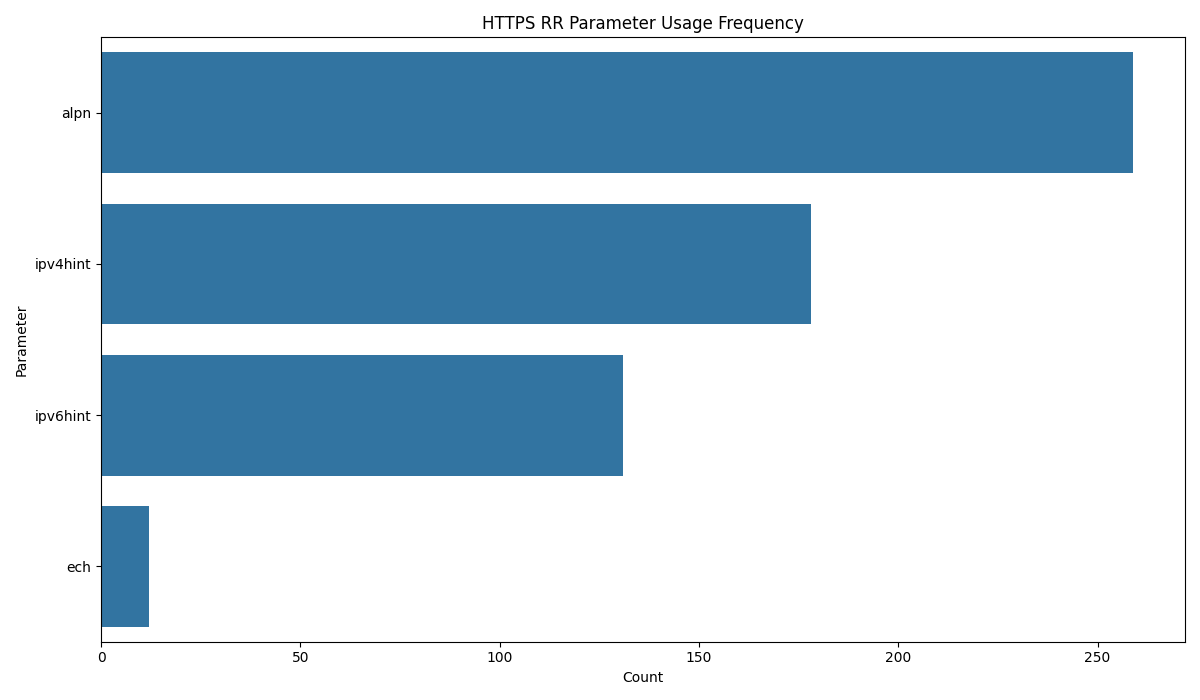
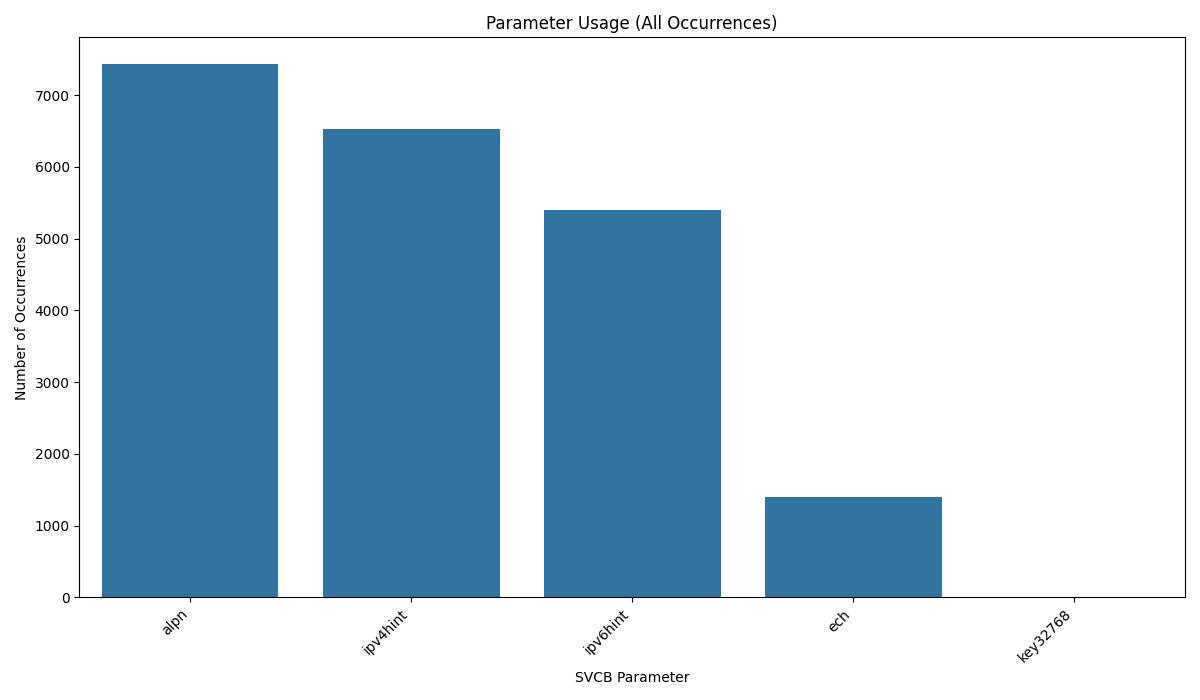
feat: Refactor DNS report generation and update documentation
- Refactored Python analysis scripts (, , ) to improve modularity, argument handling, and output consistency.
- Updated  to include a 'run' number in the CSV output for better data correlation.
- Modified  to provide comprehensive, step-by-step instructions for report generation, reflecting the updated scripts and removing PDF-specific steps.
- Adjusted  to include necessary Python libraries () and remove unused ones (, ).
- Added  to  to ignore generated report files (plots and markdown tables).
- Removed  as PDF reports are no longer required.

diff --git a/x/tools/ech-test/dnsreport/report/unique_domain_analysis.py b/x/tools/ech-test/dnsreport/report/unique_domain_analysis.py
@@ -2,30 +2,24 @@ import pandas as pd
 import seaborn as sns
 import matplotlib.pyplot as plt
 import numpy as np
+import argparse
 import os
 import json
 from collections import Counter
+import sys
 
 def main():
-    # Define file paths
-    report_dir = '/Users/fortuna/firehook/outline-sdk/x/tools/ech-test/report'
-    csv_files = [
-        os.path.join(report_dir, 'results-top1000-v1.csv'),
-        os.path.join(report_dir, 'results-top1000-v2.csv'),
-        os.path.join(report_dir, 'results-top1000-v3.csv')
-    ]
+    parser = argparse.ArgumentParser(description='Analyze unique domain usage of HTTPS RR parameters.')
+    parser.add_argument('input_file', help='Path to the input CSV file.')
+    parser.add_argument('output_dir', help='Path to the output directory for plots.')
+    args = parser.parse_args()
 
-    # Load and concatenate the datasets
-    dfs = []
-    for f in csv_files:
-        try:
-            dfs.append(pd.read_csv(f))
-        except FileNotFoundError:
-            print(f"Warning: File not found at {f}")
-    if not dfs:
-        print("Error: No data files found.")
-        exit()
-    df = pd.concat(dfs, ignore_index=True)
+    # Load the dataset
+    try:
+        df = pd.read_csv(args.input_file)
+    except FileNotFoundError:
+        print(f"Error: File not found at {args.input_file}")
+        sys.exit(1)
 
     https_df = df[df['query_type'] == 'HTTPS'].copy()
     https_df.loc[:, 'has_answer'] = https_df['answers'].apply(lambda x: x != '[]')
@@ -34,30 +28,38 @@ def main():
     total_unique_domains_with_https_rr = https_df[https_df['has_answer']]['domain'].nunique()
 
     # Analysis 2: HTTPS RR Feature Usage (Unique Domains)
-    param_domains = {
-        'alpn': set(),
-        'ipv4hint': set(),
-        'ipv6hint': set(),
-        'ech': set()
-    }
+    param_domains = {} # Use a dict to store sets for dynamic parameters
 
     for index, row in https_df[https_df['has_answer']].iterrows():
         try:
             answers = json.loads(row['answers'])
             for answer in answers:
                 if 'params' in answer:
-                    for param in answer['params'].keys():
-                        if param in param_domains:
-                            param_domains[param].add(row['domain'])
+                    for param, value in answer['params'].items():
+                        # Special handling for 'alpn' to extract individual ALPN values
+                        if param == 'alpn' and isinstance(value, list):
+                            for alpn_value in value:
+                                key = f"alpn:{alpn_value}"
+                                if key not in param_domains:
+                                    param_domains[key] = set()
+                                param_domains[key].add(row['domain'])
+                        else: # Handle other parameters
+                            key = f"param:{param}" if param not in ['alpn', 'ipv4hint', 'ipv6hint', 'ech'] else param
+                            if key not in param_domains:
+                                param_domains[key] = set()
+                            param_domains[key].add(row['domain'])
         except json.JSONDecodeError:
             continue
 
-    param_counts = {param: len(domains) for param, domains in param_domains.items()}
-    
-    # Add total HTTPS RR support to the counts
-    param_counts['Total HTTPS RR Support'] = total_unique_domains_with_https_rr
+    # Convert sets to counts and include dynamically added parameters
+    final_param_counts = {}
+    for param, domains_set in param_domains.items():
+        final_param_counts[param] = len(domains_set)
 
-    param_df = pd.DataFrame(param_counts.items(), columns=['Parameter', 'Unique Domains']).sort_values(by='Unique Domains', ascending=False)
+    # Add total HTTPS RR support to the counts
+    final_param_counts['Total HTTPS RR Support'] = total_unique_domains_with_https_rr
+
+    param_df = pd.DataFrame(final_param_counts.items(), columns=['Parameter', 'Unique Domains']).sort_values(by='Unique Domains', ascending=False)
 
     plt.figure(figsize=(12, 7))
     sns.barplot(x='Unique Domains', y='Parameter', data=param_df)
@@ -65,7 +67,7 @@ def main():
     plt.xlabel('Number of Unique Domains')
     plt.ylabel('Parameter')
     plt.tight_layout()
-    output_path = os.path.join(report_dir, 'param_usage_unique_domains.png')
+    output_path = os.path.join(args.output_dir, 'param_usage_unique_domains.png')
     plt.savefig(output_path)
     print(f"Parameter usage chart (unique domains) saved to {output_path}")
     plt.close()

diff --git a/x/tools/ech-test/dnsreport/report/generate_charts.py b/x/tools/ech-test/dnsreport/report/generate_charts.py
@@ -4,14 +4,7 @@ import matplotlib.pyplot as plt
 import numpy as np
 import argparse
 import os
-
-def get_tld_category(domain):
-    parts = domain.split('.')
-    if len(parts) > 1:
-        tld = parts[-1]
-        if len(tld) == 2:
-            return tld
-    return 'other'
+import json # Added import
 
 def main():
     parser = argparse.ArgumentParser(description='Generate performance report charts.')
@@ -41,7 +34,7 @@ def main():
     plt.xticks(np.arange(0, 1.1, 0.1))
     plt.grid(True)
     plt.legend(title='Query Type')
-    output_path = os.path.join(args.output_dir, 'quantile_plot.png')
+    output_path = os.path.join(args.output_dir, 'duration_by_type_quantile_plot.png') # Renamed output file
     plt.savefig(output_path)
     print(f"Chart 1 saved to {output_path}")
     plt.close()
@@ -88,39 +81,32 @@ def main():
     print(f"Chart 1.2 saved to {output_path}")
     plt.close()
 
-    # Prepare data for the next charts
-    a_queries = df[df['query_type'] == 'A'][['domain', 'duration_ms']]
-    https_queries = df[df['query_type'] == 'HTTPS'][['domain', 'duration_ms']]
-    merged_df = pd.merge(a_queries, https_queries, on='domain', suffixes=('_A', '_HTTPS'))
-    merged_df['duration_diff'] = merged_df['duration_ms_HTTPS'] - merged_df['duration_ms_A']
-    merged_df['tld_category'] = merged_df['domain'].apply(get_tld_category)
+    # Chart: Parameter Usage (all occurrences)
+    https_answers = df[df['query_type'] == 'HTTPS']['answers']
+    all_params = []
+    for answer_str in https_answers:
+        try:
+            answers_list = json.loads(answer_str)
+            for answer in answers_list:
+                if isinstance(answer, dict) and 'params' in answer:
+                    for param_key in answer['params'].keys():
+                        all_params.append(param_key)
+        except json.JSONDecodeError:
+            continue # Skip malformed JSON
 
-    # Chart 2: Distribution of Duration Difference (HTTPS - A) by TLD Category
-    plt.figure(figsize=(15, 8))
-    sns.boxplot(x='tld_category', y='duration_diff', data=merged_df, showfliers=False)
-    plt.xticks(rotation=90)
-    plt.title('Distribution of Duration Difference (HTTPS - A) by TLD Category')
-    plt.xlabel('TLD Category')
-    plt.ylabel('Duration Difference (ms)')
-    plt.grid(True)
-    plt.tight_layout()
-    output_path = os.path.join(args.output_dir, 'duration_diff_by_tld.png')
-    plt.savefig(output_path)
-    print(f"Chart 2 saved to {output_path}")
-    plt.close()
-
-    # Chart 3: Histogram of HTTPS Query Durations
-    plt.figure(figsize=(12, 7))
-    sns.histplot(https_queries['duration_ms'], bins=50, kde=True)
-    plt.title('Distribution of HTTPS Query Durations')
-    plt.xlabel('Duration (ms)')
-    plt.ylabel('Frequency')
-    plt.xlim(0, 1000)
-    plt.grid(True)
-    output_path = os.path.join(args.output_dir, 'https_duration_histogram.png')
-    plt.savefig(output_path)
-    print(f"Chart 3 saved to {output_path}")
-    plt.close()
+    if all_params:
+        param_counts = pd.Series(all_params).value_counts()
+        plt.figure(figsize=(12, 7))
+        sns.barplot(x=param_counts.index, y=param_counts.values)
+        plt.title('Parameter Usage (All Occurrences)')
+        plt.xlabel('SVCB Parameter')
+        plt.ylabel('Number of Occurrences')
+        plt.xticks(rotation=45, ha='right')
+        plt.tight_layout()
+        output_path = os.path.join(args.output_dir, 'param_usage.png')
+        plt.savefig(output_path)
+        print(f"Chart: Parameter Usage (All Occurrences) saved to {output_path}")
+        plt.close()
 
 if __name__ == '__main__':
     main()

diff --git a/x/tools/ech-test/dnsreport/README.md b/x/tools/ech-test/dnsreport/README.md
@@ -26,21 +26,18 @@ The analysis scripts are written in Python.
     pip install -r ./dnsreport/report/requirements.txt
     ```
 
-4.  **Install PDF generator dependency:**
-    The script to convert the report to PDF uses `wkhtmltopdf`.
-    *   **macOS:** `brew install wkhtmltopdf`
-    *   **Debian/Ubuntu:** `sudo apt-get install wkhtmltopdf`
+
 
 
 ## Step 2: Collect DNS Data
 
-From the `ech-test` folder, run the data collection tool. The following command will query the top 1,000 domains 5 times each, which is a good sample for the report.
+From the `ech-test` folder, run the data collection tool. The following command will query the top 10,000 domains 5 times each, which is a good sample for the report.
 
 ```sh
-go run ./dnsreport -topN 1000 -numQueries 5
+go run ./dnsreport -topN 10000 -numQueries 5
 ```
 
-This will save the results to `./workspace/results-top1000-n5.csv`.
+This will save the results to `./workspace/results-top10000-n5.csv`.
 
 ### Parameters
 
@@ -56,6 +53,7 @@ The tool generates a CSV file (`workspace/results-top<N>-n<M>.csv`) with the fol
 
 * `domain`: The domain that was queried.
 * `rank`: The rank of the domain in the Tranco list.
+* `run`: The run number of the query.
 * `query_type`: The type of DNS query (A, AAAA, HTTPS).
 * `timestamp`: When the query was performed (RFC3339Nano).
 * `duration_ms`: How long the query took in milliseconds.
@@ -76,27 +74,27 @@ The goal of this step is to determine the impact of waiting for the HTTPS RR bef
 
 ### Generating the Latency Analysis
 
-First, navigate to the report directory and sort the data (optional but recommended):
+First, navigate to the report directory and sort the data:
 ```sh
 cd dnsreport/report
-python3 sort_csv_by_rank.py ../../workspace/results-top1000-n5.csv
+../../workspace/.venv/bin/python3 sort_csv_by_rank.py ../../workspace/results-top10000-n5.csv
 ```
+This creates `../../workspace/results-top10000-n5-sorted.csv`.
 
 Now, run the analysis scripts. The input file is the sorted CSV from the previous step.
 
 1.  **Generate Latency Plots:**
     ```sh
-    python3 plot_durations.py ../../workspace/results-top1000-n5-sorted.csv
+    ../../workspace/.venv/bin/python3 generate_charts.py ../../workspace/results-top10000-n5-sorted.csv .
     ```
     **Outputs:** This generates the following plots in the current directory (`dnsreport/report`):
-    *   `quantile_plot.png`: Overall latency distribution.
-    *   `duration_by_type_quantile_plot.png`: Latency broken down by query type.
+    *   `duration_by_type_quantile_plot.png`: Overall latency distribution.
     *   `min_duration_quantile_plot.png`: Best-case (cached) latency distribution.
     *   `median_duration_quantile_plot.png`: Typical latency distribution.
 
 2.  **Generate Slow Queries Table:**
     ```sh
-    python3 generate_filtered_table.py ../../workspace/results-top1000-n5-sorted.csv > slow_https_queries.md
+    ../../workspace/.venv/bin/python3 generate_filtered_table.py ../../workspace/results-top10000-n5-sorted.csv > slow_https_queries.md
     ```
     **Output:** This creates `slow_https_queries.md`, a markdown file containing a table of the slowest domains.
 
@@ -110,7 +108,8 @@ The following scripts analyze the feature usage from the collected data. Ensure 
 
 1.  **Generate Feature Usage Plots:**
     ```sh
-    python3 generate_charts.py ../../workspace/results-top1000-n5-sorted.csv
+    ../../workspace/.venv/bin/python3 generate_charts.py ../../workspace/results-top10000-n5-sorted.csv .
+    ../../workspace/.venv/bin/python3 unique_domain_analysis.py ../../workspace/results-top10000-n5-sorted.csv .
     ```
     **Outputs:** This generates the following plots:
     *   `param_usage.png`: Usage frequency of all HTTPS RR parameters.
@@ -118,7 +117,7 @@ The following scripts analyze the feature usage from the collected data. Ensure 
 
 2.  **Generate Feature Usage Table:**
     ```sh
-    python3 unique_domain_analysis.py ../../workspace/results-top1000-n5-sorted.csv > feature_usage_table.md
+    ../../workspace/.venv/bin/python3 unique_domain_analysis.py ../../workspace/results-top10000-n5-sorted.csv > feature_usage_table.md
     ```
     **Output:** This creates `feature_usage_table.md`, a markdown file with a table showing how many unique domains use each parameter.
 
@@ -127,11 +126,6 @@ The following scripts analyze the feature usage from the collected data. Ensure 
 1.  **Fill in the report:**
     Open `report.md`. The generated charts are already linked. You can copy the contents of `slow_https_queries.md` and `feature_usage_table.md` to replace the example tables in the report. Finally, write a conclusion based on the findings.
 
-2.  **Convert to PDF:**
-    Once the report is complete, you can generate a PDF version:
-    ```sh
-    python3 convert_to_pdf.py
-    ```
-    This will create `report.pdf`.
+
 
 Remember to `cd ../..` to return to the `ech-test` directory when you are done.
